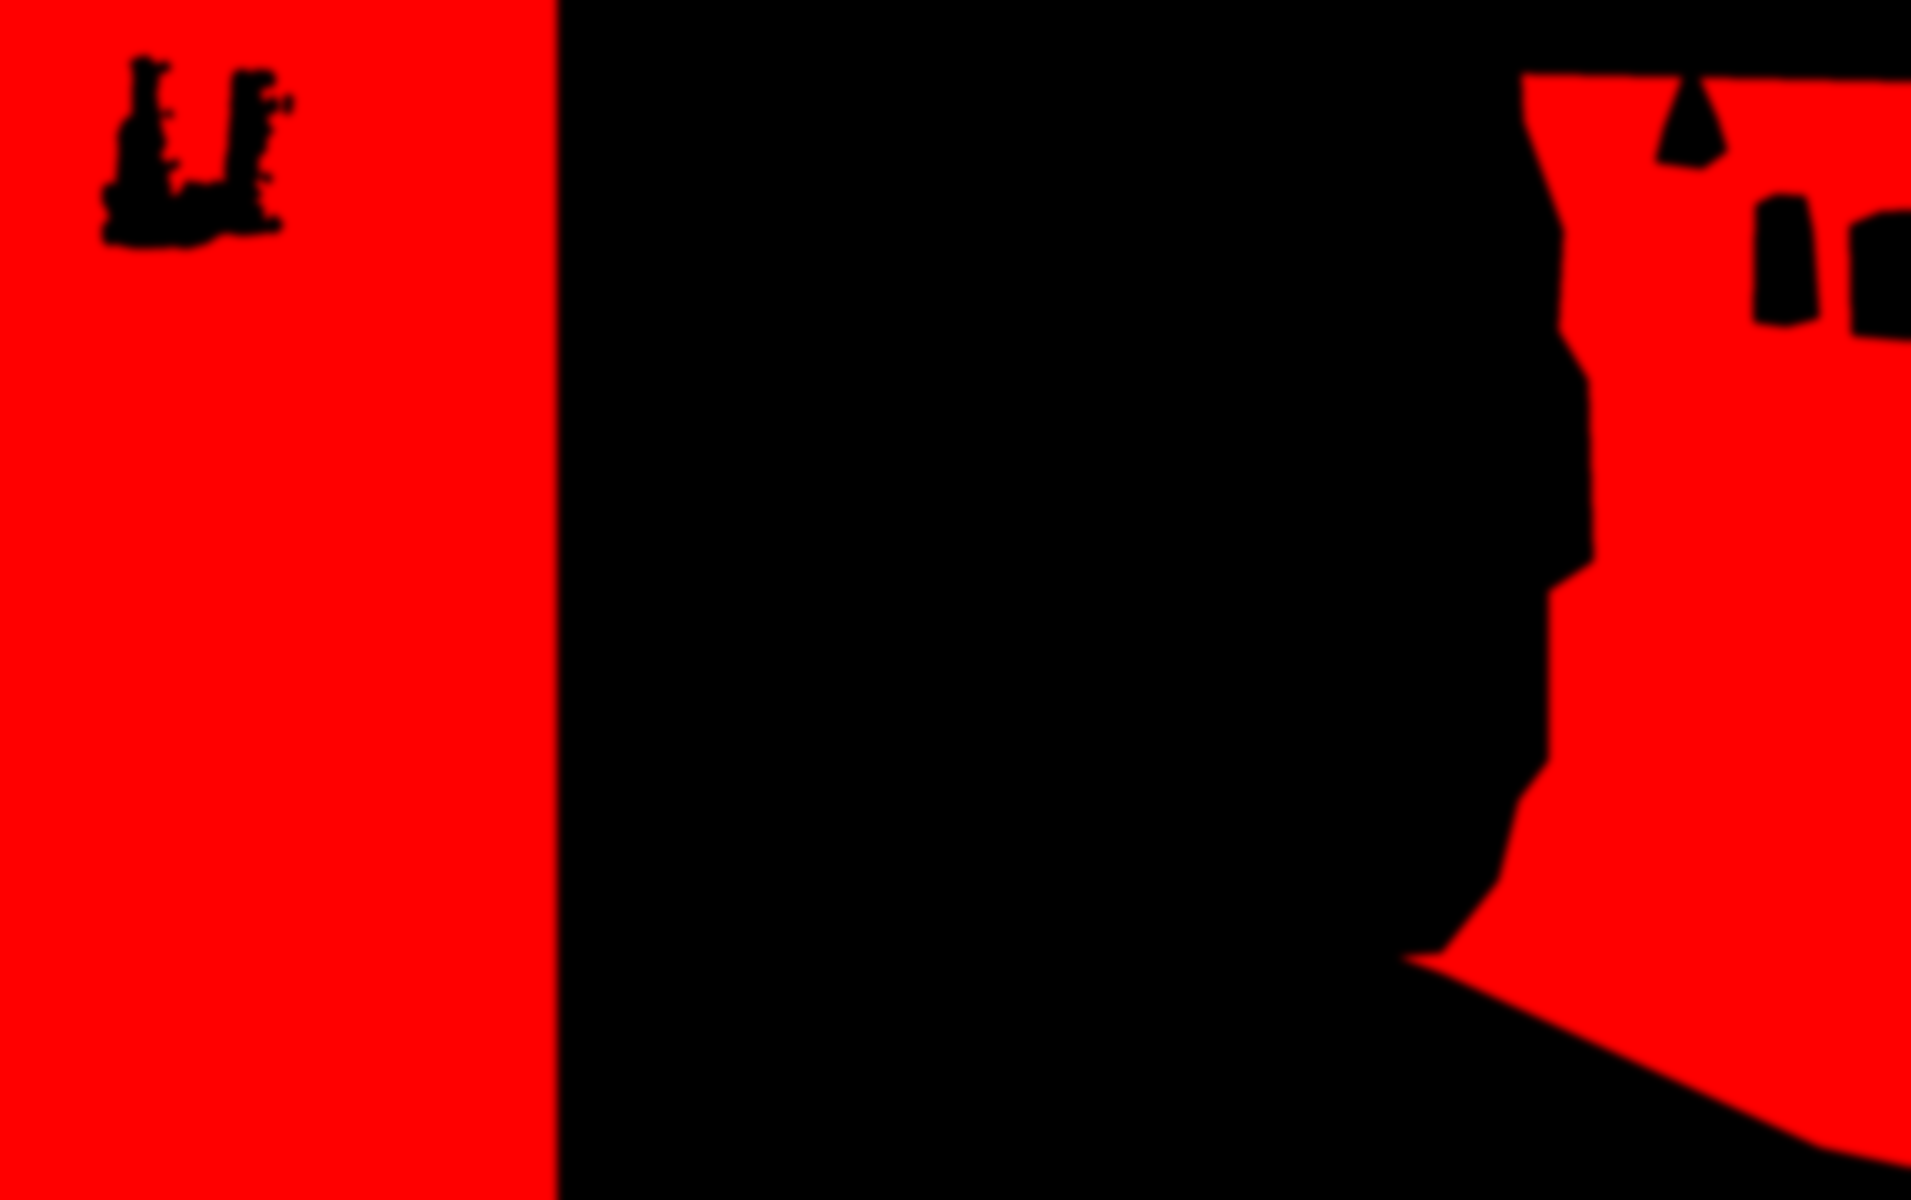
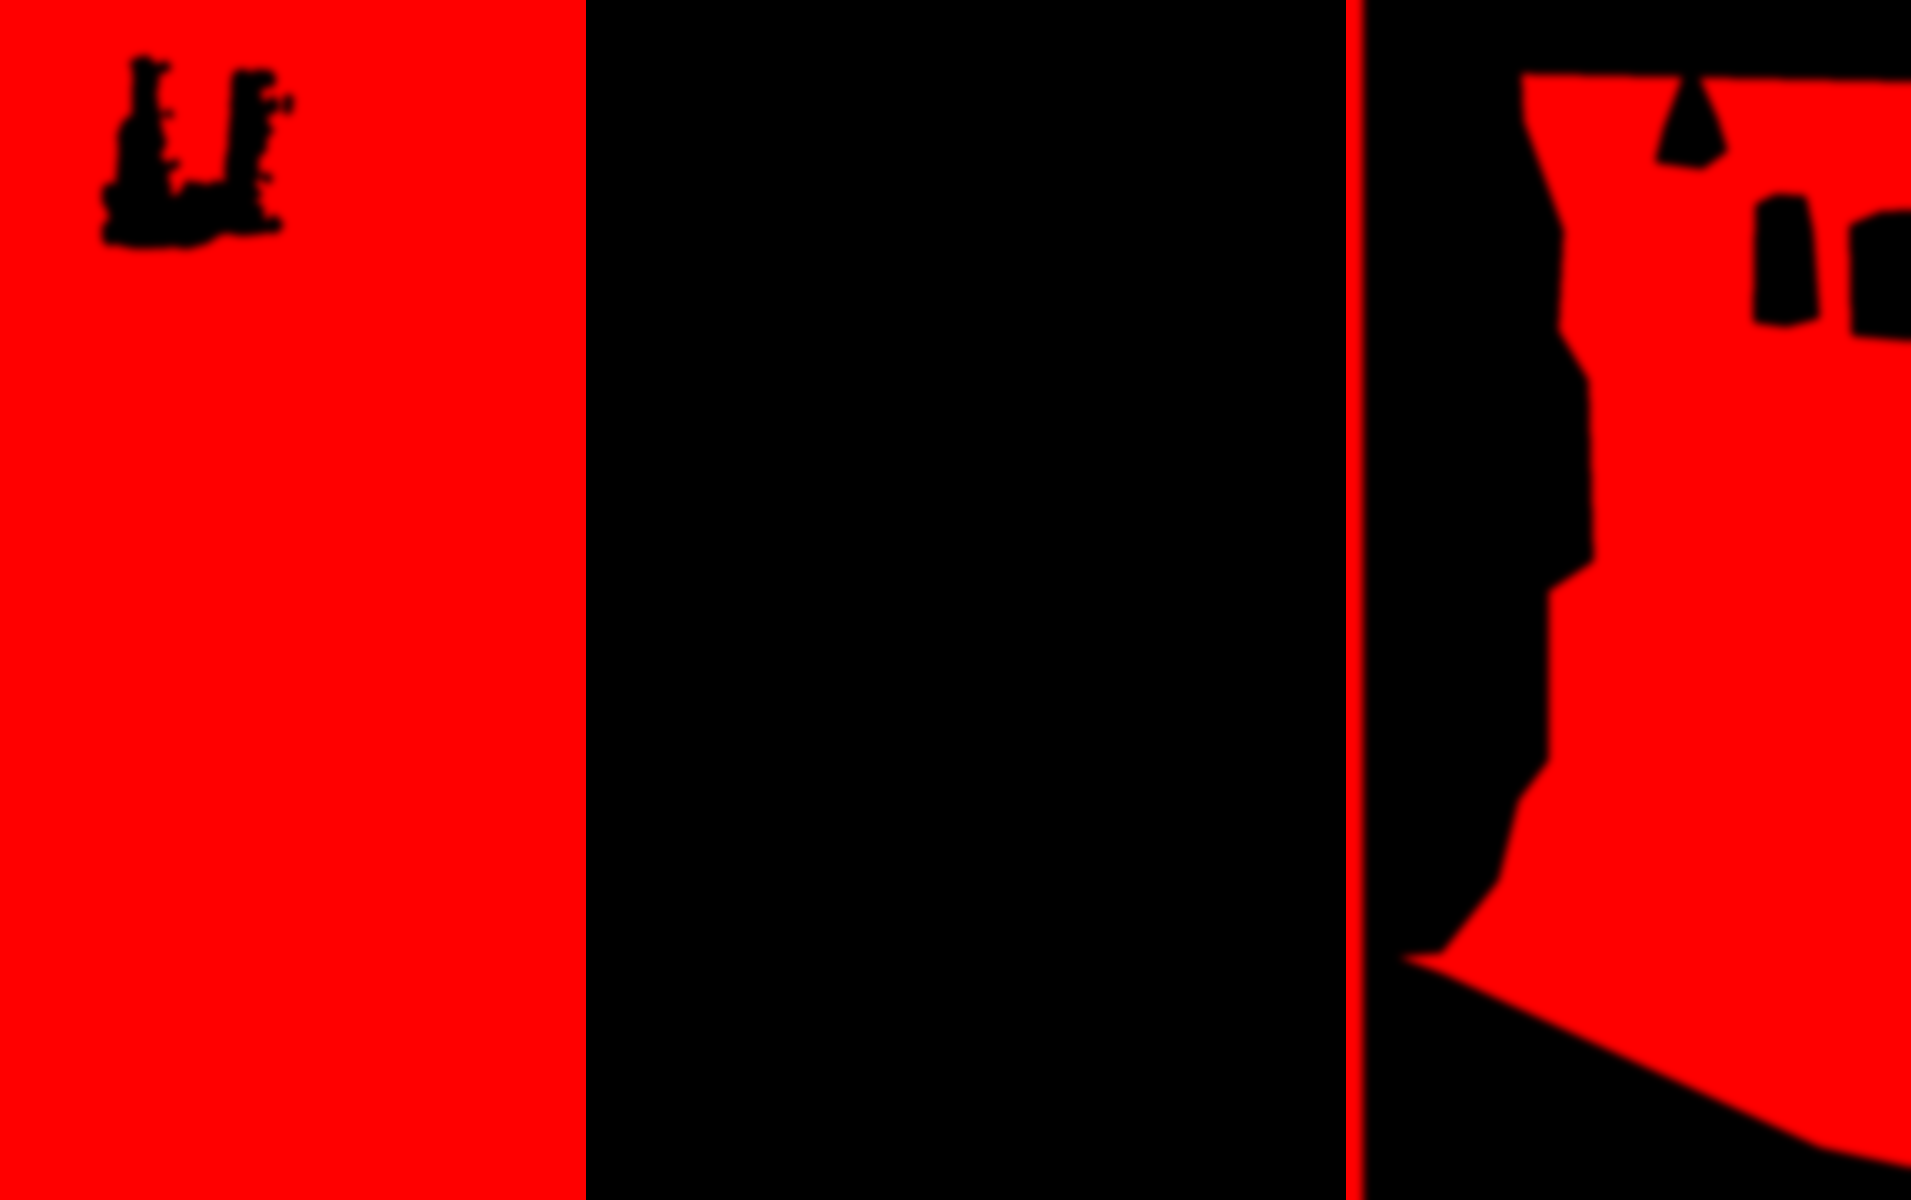
District sur PC : plus de jonction visible entre la mer du tableau et la mer prolongée
Claude-Session: https://claude.ai/code/session_01YVrYiX1uuoxammkRtkSmZN

Changed region(s): [[0.6792, 0.0, 0.741, 1.0], [0.2779, 0.0, 0.3087, 1.0]]

diff --git a/src/ui/houle.ts b/src/ui/houle.ts
@@ -55,15 +55,17 @@ void main(){
   vec2 e=p-FUMEE;float hf=-e.y;
   bool fumee=hf>-4.&&hf<104.&&e.x>-20.&&e.x<62.;
   if(mer+eau+cr+feu+hc+fh<.015&&!fumee)discard;
-  vec2 q=uv;float w=0.,bord=0.,ress=0.,prox=0.;
+  vec2 q=uv;float w=0.,bord=0.,ress=0.,prox=0.,pb=1.;
   if(mer>.02){
     // la houle de fond, plus le ressac : des vagues qui montent vers la digue, poussent l'écume peinte contre elle puis la ramènent
     float d=texture2D(m3,uv).g;
     vec2 ex=vec2(2./400.,0.),ey=vec2(0.,2./600.);
     vec2 gr=vec2(texture2D(m3,uv+ex).g-texture2D(m3,uv-ex).g,texture2D(m3,uv+ey).g-texture2D(m3,uv-ey).g);
     vec2 vers=-gr/max(length(gr),.0005);
-    prox=1.-smoothstep(.05,1.,d);
-    ress=sin(d*11.-t*1.15+(n(p*.025+vec2(0.,t*.05))-.5)*2.4);
+    // avec la mer prolongée (PC), le ressac s'efface en approchant des côtés du tableau : elle n'en a pas, la jonction ne se voit pas
+    pb=mix(smoothstep(0.,.06,uv.x)*smoothstep(0.,.06,1.-uv.x),1.,cote);
+    prox=(1.-smoothstep(.05,1.,d))*pb;
+    ress=sin(d*11.-t*1.15+(n(p*.025+vec2(0.,t*.05))-.5)*2.4)*pb;
     w=sin(p.x*.045+p.y*.11-t*1.1)*.6+sin(-p.x*.07+p.y*.05-t*.7)*.4+sin(p.y*.31+p.x*.02-t*2.3)*.15;
     // sur PC, la mer prolongée ondule avec le tableau (MER_LARGE) : la houle ne s'éteint plus sur ses côtés
     bord=mix(1.,smoothstep(0.,.07,uv.x)*smoothstep(0.,.07,1.-uv.x),cote)*smoothstep(0.,.05,uv.y)*smoothstep(0.,.03,1.-uv.y);
@@ -81,7 +83,7 @@ void main(){
     c*=1.+bord*mer*prox*.06*ress;
     // une frange d'écume vivante contre la digue : elle monte quand la vague touche et se déchire en dentelle
     float d=texture2D(m3,uv).g;
-    float frange=1.-smoothstep(0.,.05+.07*(ress*.5+.5),d);
+    float frange=(1.-smoothstep(0.,.05+.07*(ress*.5+.5),d))*pb;
     float dentelle=smoothstep(.48,.78,fbm(p*vec2(.22,.3)+vec2(t*.35,-t*.25)));
     c=mix(c,vec3(.99,.97,.72),frange*dentelle*.75*bord*mer);
     // et des éclats qui scintillent sur les plaques d'écume crème du tableau

diff --git a/scripts/cuvette-large-masque.py b/scripts/cuvette-large-masque.py
@@ -15,7 +15,6 @@ lum = (r + g + b) / 3
 Y, X = np.mgrid[0:H, 0:W]
 
 terre = np.zeros((H, W), bool)
-terre[:, 560:1372] = True                                   # sous le tableau (il a sa propre houle)
 # la digue et les maisons qui dépassent du tableau à droite, puis le ponton du Port
 poly = Image.new('L', (W, H), 0)
 ImageDraw.Draw(poly).polygon([(1366, 0), (1515, 0), (1520, 120), (1560, 230), (1555, 330), (1585, 380), (1590, 560),
@@ -41,7 +40,8 @@ terre |= np.asarray(formes) > 0
 # une petite marge, puis un fondu : la houle s'éteint doucement contre ce qui ne bouge pas
 terre = nd.binary_dilation(terre, iterations=3)
 mer = np.asarray(Image.fromarray((~terre * 255).astype(np.uint8)).filter(ImageFilter.GaussianBlur(4))).astype(float)
-mer[:, 566:1366] = 0
+# sous le tableau, rien à dessiner ; la mer va 20 px dessous (cachée) : pas de bande immobile contre son bord
+mer[:, 586:1346] = 0
 out = np.zeros((H, W, 3), np.uint8)
 out[..., 0] = mer.astype(np.uint8)
 Image.fromarray(out).save(D + 'cuvette-large-mer.webp', lossless=True)
